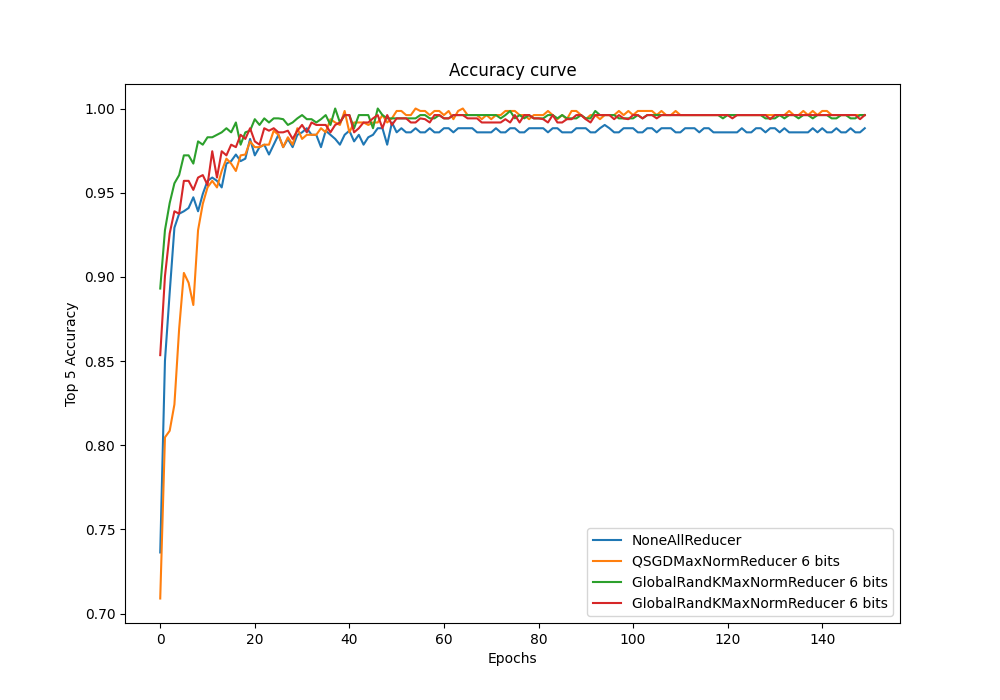
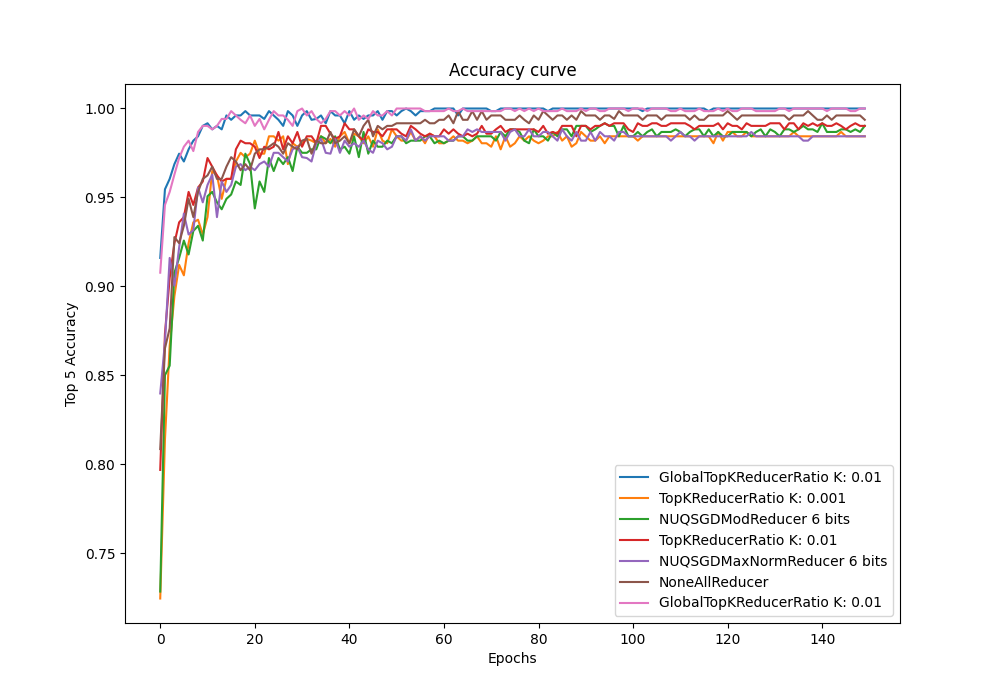
New log entries

diff --git a/utils.py b/utils.py
@@ -7,10 +7,10 @@ def plot_loss_curves(log_path):
     plt.figure(figsize=[10, 7])
 
     experiments = os.listdir(log_path)
-    experiments = ['2020_08_15_10_51_22_ResNet50', '2020_08_16_19_17_28_ResNet50', '2020_09_21_13_05_30_ResNet50', '2020_09_18_19_42_36_ResNet50']
     for experiment in experiments:
         reducer = None
         quant_level = None
+        compression = None
 
         with open(os.path.join(log_path, experiment, 'success.txt')) as file:
             for line in file:
@@ -21,8 +21,13 @@ def plot_loss_curves(log_path):
                 if line.startswith("quantization_level"):
                     quant_level = line.split(': ')[-1]
 
+                if line.startswith("compression"):
+                    compression = line.split(': ')[-1]
+
         if quant_level:
             label = ' '.join([reducer, quant_level, 'bits'])
+        elif compression:
+            label = ' '.join([reducer, 'K:', compression])
         else:
             label = reducer
 
@@ -42,10 +47,10 @@ def plot_top1_accuracy_curves(log_path):
     plt.figure(figsize=[10, 7])
 
     experiments = os.listdir(log_path)
-    experiments = ['2020_08_15_10_51_22_ResNet50', '2020_08_16_19_17_28_ResNet50', '2020_09_21_13_05_30_ResNet50', '2020_09_18_19_42_36_ResNet50']
     for experiment in experiments:
         reducer = None
         quant_level = None
+        compression = None
 
         with open(os.path.join(log_path, experiment, 'success.txt')) as file:
             for line in file:
@@ -56,8 +61,13 @@ def plot_top1_accuracy_curves(log_path):
                 if line.startswith("quantization_level"):
                     quant_level = line.split(': ')[-1]
 
+                if line.startswith("compression"):
+                    compression = line.split(': ')[-1]
+
         if quant_level:
             label = ' '.join([reducer, quant_level, 'bits'])
+        elif compression:
+            label = ' '.join([reducer, 'K:', compression])
         else:
             label = reducer
 
@@ -77,10 +87,10 @@ def plot_top5_accuracy_curves(log_path):
     plt.figure(figsize=[10, 7])
 
     experiments = os.listdir(log_path)
-    experiments = ['2020_08_15_10_51_22_ResNet50', '2020_08_16_19_17_28_ResNet50', '2020_09_21_13_05_30_ResNet50', '2020_09_18_19_42_36_ResNet50']
     for experiment in experiments:
         reducer = None
         quant_level = None
+        compression = None
 
         with open(os.path.join(log_path, experiment, 'success.txt')) as file:
             for line in file:
@@ -91,8 +101,13 @@ def plot_top5_accuracy_curves(log_path):
                 if line.startswith("quantization_level"):
                     quant_level = line.split(': ')[-1]
 
+                if line.startswith("compression"):
+                    compression = line.split(': ')[-1]
+
         if quant_level:
             label = ' '.join([reducer, quant_level, 'bits'])
+        elif compression:
+            label = ' '.join([reducer, 'K:', compression])
         else:
             label = reducer
 
@@ -112,10 +127,10 @@ def plot_time_per_batch_curves(log_path):
     plt.figure(figsize=[10, 7])
 
     experiments = os.listdir(log_path)
-    experiments = ['2020_08_15_10_51_22_ResNet50', '2020_08_16_19_17_28_ResNet50', '2020_09_21_13_05_30_ResNet50', '2020_09_18_19_42_36_ResNet50']
     for experiment in experiments:
         reducer = None
         quant_level = None
+        compression = None
 
         with open(os.path.join(log_path, experiment, 'success.txt')) as file:
             for line in file:
@@ -126,19 +141,24 @@ def plot_time_per_batch_curves(log_path):
                 if line.startswith("quantization_level"):
                     quant_level = line.split(': ')[-1]
 
-        if quant_level:
-            label = ' '.join([reducer, quant_level, 'bits'])
-        else:
-            label = reducer
+                if line.startswith("compression"):
+                    compression = line.split(': ')[-1]
+
+            if quant_level:
+                label = ' '.join([reducer, quant_level, 'bits'])
+            elif compression:
+                label = ' '.join([reducer, 'K:', compression])
+            else:
+                label = reducer
 
         log_dict = np.load(os.path.join(log_path, experiment, 'log_dict.npy'), allow_pickle=True)
         time = log_dict[()].get('time')
-        avg_time = np.zeros_like(time)
+        epoch_time = np.zeros(len(time) - 1)
 
-        for ind in range(avg_time.shape[0]):
-            avg_time[ind] = (time[ind] - time[0]) / (ind + 1)
+        for ind in range(epoch_time.shape[0]):
+            epoch_time[ind] = time[ind+1] - time[ind]
 
-        plt.plot(avg_time, label=label)
+        plt.plot(epoch_time, label=label)
 
     plt.xlabel("Epochs")
     plt.ylabel("Average time")
@@ -149,7 +169,7 @@ def plot_time_per_batch_curves(log_path):
 
 
 if __name__ == '__main__':
-    plot_loss_curves('./logs')
-    plot_top1_accuracy_curves('./logs')
-    plot_top5_accuracy_curves('./logs')
-    plot_time_per_batch_curves('./logs')
+    plot_loss_curves('./logs/plot_logs')
+    plot_top1_accuracy_curves('./logs/plot_logs')
+    plot_top5_accuracy_curves('./logs/plot_logs')
+    plot_time_per_batch_curves('./logs/plot_logs')

diff --git a/trainer.py b/trainer.py
@@ -14,7 +14,7 @@ from reducer import (
     QSGDMaxNormReducer, QSGDBPReducer, QSGDBPAllReducer,
     GlobalRandKMaxNormReducer, MaxNormGlobalRandKReducer,
     NUQSGDModReducer, NUQSGDMaxNormReducer,
-    TopKReducer, TopKReducerRatio
+    TopKReducer, TopKReducerRatio, GlobalTopKReducer, GlobalTopKReducerRatio,
 )
 from timer import Timer
 from logger import Logger
@@ -27,7 +27,7 @@ config = dict(
     architecture="ResNet50",
     # K=10000,
     compression=1/1000,
-    reducer="TopKReducerRatio",
+    reducer="GlobalTopKReducerRatio",
     # quantization_level=6,
     seed=42,
     log_verbosity=2,
